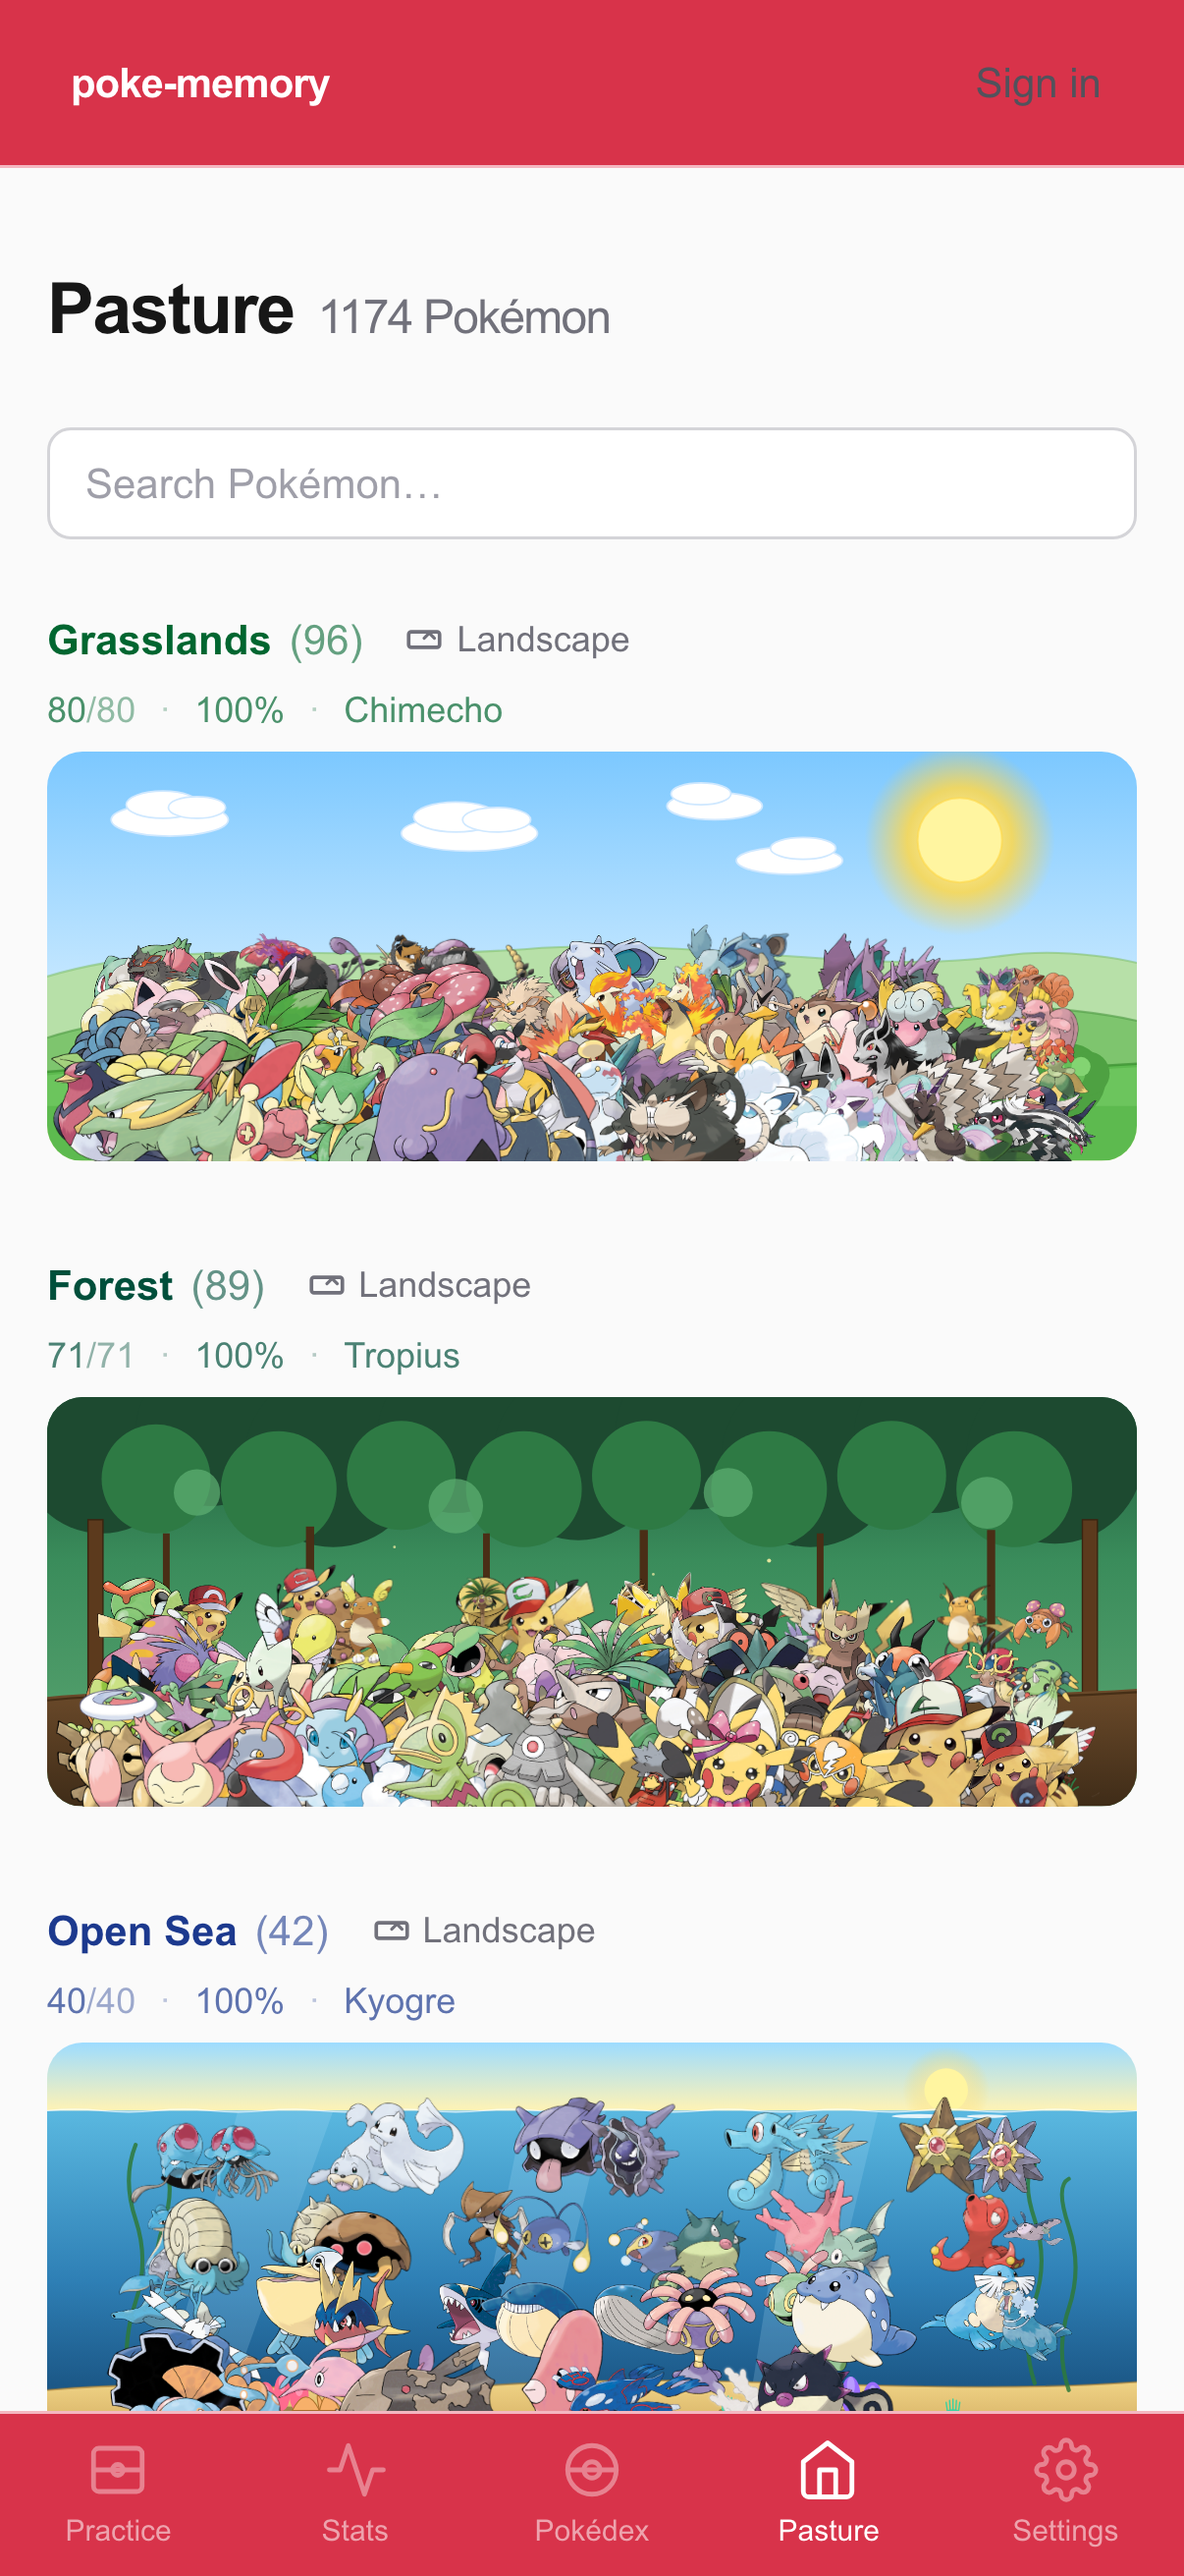
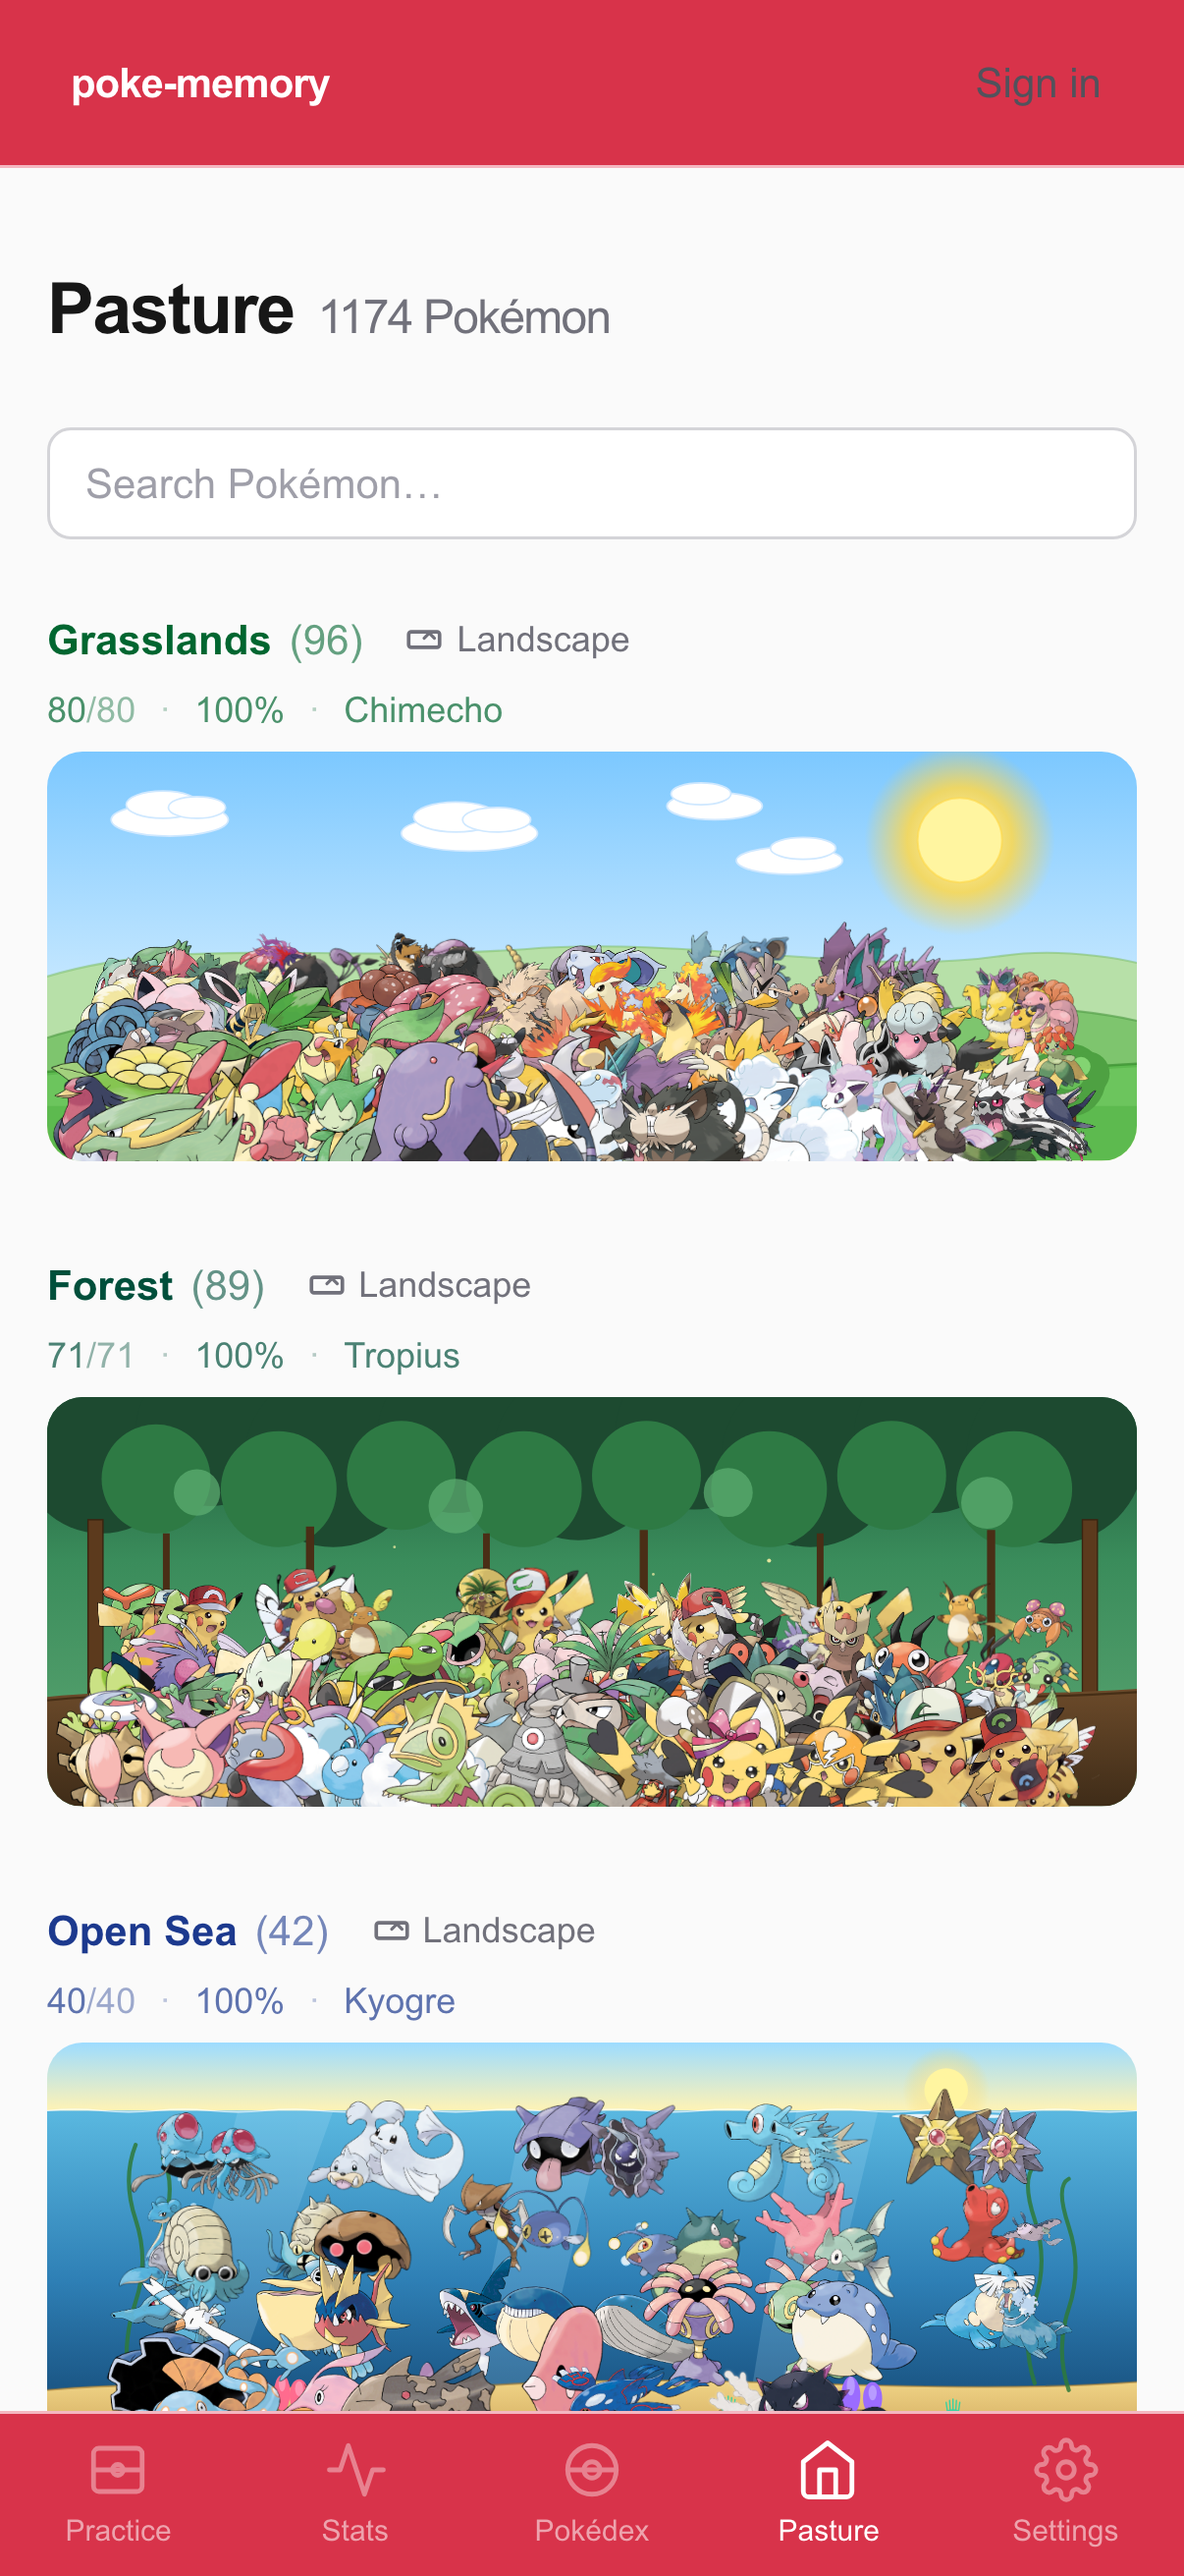
fix(mobile): extend tab-bar tap targets into safe-area inset; hide footer in bottom-nav mode
Tap-target fix (#734): removes the dead strip below mobile tab icons by
moving the safe-area padding from the <nav> wrapper onto each <Link> /
<span> via `pb-[max(12px,env(safe-area-inset-bottom))]`. Each tab item
now has `pt-3 min-h-[44px]` above the inset, meeting the Apple HIG 44pt
minimum with no unreachable gap over the home indicator.

Footer behaviour (#735): Footer returns null when `mobileNav === 'bottom'`
(same pattern as MobileNavPaddingWrapper), eliminating the overlap with
the fixed tab bar. Privacy, Terms, and the fan-project disclaimer are
added to the existing Settings → About section so they remain reachable
in app-like mode. Screenshots regenerated on macOS (iPhone 17 Pro
viewport) — practice-front, practice-flipped, and pasture changed.

closes #734
closes #735

Changed region(s): [[0.092, 0.8032, 0.8897, 0.9577], [0.0307, 0.3398, 0.9204, 0.4634], [0.0614, 0.587, 0.9204, 0.7105]]

diff --git a/components/BottomTabBar.tsx b/components/BottomTabBar.tsx
@@ -186,7 +186,6 @@ function BottomTabBarInner() {
     <nav
       aria-label="Mobile tab navigation"
       className="fixed bottom-0 left-0 right-0 z-40 border-t border-theme-secondary bg-theme-primary md:hidden"
-      style={{ paddingBottom: "env(safe-area-inset-bottom)" }}
     >
       <ul
         role="list"
@@ -202,7 +201,14 @@ function BottomTabBarInner() {
                 href={href}
                 aria-current={isActive ? "page" : undefined}
                 className={[
-                  "flex flex-col items-center gap-0.5 px-2 py-2 text-[10px] font-medium transition-colors",
+                  // py-3 top padding + safe-area-aware bottom padding so the
+                  // interactive area extends into the iOS home-indicator strip —
+                  // no dead tap zone below the visible icons.
+                  // min-h-[44px] ensures the Apple HIG 44pt minimum above the
+                  // safe-area inset (the inset itself is additional space).
+                  "flex flex-col items-center gap-0.5 px-2 pt-3 min-h-[44px]",
+                  "pb-[max(12px,env(safe-area-inset-bottom))]",
+                  "text-[10px] font-medium transition-colors",
                   "focus-visible:outline-none focus-visible:ring-2 focus-visible:ring-[var(--theme-accent)] focus-visible:ring-inset",
                   isActive
                     ? "text-theme-fg-on-primary"
@@ -234,7 +240,6 @@ function BottomTabBarFallback() {
     <div
       aria-hidden="true"
       className="fixed bottom-0 left-0 right-0 z-40 border-t border-theme-secondary bg-theme-primary md:hidden"
-      style={{ paddingBottom: "env(safe-area-inset-bottom)" }}
     >
       <ul
         role="list"
@@ -243,7 +248,7 @@ function BottomTabBarFallback() {
         {STATIC_TABS.map(({ href, label, Icon }) => (
           <li key={href} className="flex-1">
             <span
-              className="flex flex-col items-center gap-0.5 px-2 py-2 text-[10px] font-medium text-theme-fg-on-primary opacity-55"
+              className="flex flex-col items-center gap-0.5 px-2 pt-3 min-h-[44px] pb-[max(12px,env(safe-area-inset-bottom))] text-[10px] font-medium text-theme-fg-on-primary opacity-55"
             >
               <Icon />
               <span>{label}</span>

diff --git a/app/settings/page.tsx b/app/settings/page.tsx
@@ -1575,6 +1575,39 @@ export default function SettingsPage() {
                       View changelog
                     </Link>
                   </div>
+
+                  <hr className="border-zinc-200 dark:border-zinc-800" />
+
+                  <div className="flex flex-wrap gap-3">
+                    <Link
+                      href="/privacy"
+                      className="inline-flex min-h-[44px] items-center rounded-lg border border-zinc-300 bg-background px-5 py-2 text-sm font-semibold text-foreground transition-colors hover:opacity-80 focus-visible:outline-none focus-visible:ring-2 focus-visible:ring-foreground focus-visible:ring-offset-2 dark:border-zinc-700"
+                    >
+                      Privacy
+                    </Link>
+                    <Link
+                      href="/terms"
+                      className="inline-flex min-h-[44px] items-center rounded-lg border border-zinc-300 bg-background px-5 py-2 text-sm font-semibold text-foreground transition-colors hover:opacity-80 focus-visible:outline-none focus-visible:ring-2 focus-visible:ring-foreground focus-visible:ring-offset-2 dark:border-zinc-700"
+                    >
+                      Terms
+                    </Link>
+                  </div>
+
+                  <p className="text-xs text-zinc-400 dark:text-zinc-500">
+                    Unofficial fan project, not affiliated with or endorsed by Nintendo,
+                    Game Freak, or The Pok&eacute;mon Company. Pok&eacute;mon and all
+                    related names, sprites, and cries are the property of their respective
+                    owners. Sprite and species data sourced from{" "}
+                    <a
+                      href="https://pokeapi.co"
+                      target="_blank"
+                      rel="noopener noreferrer"
+                      className="underline-offset-2 hover:underline focus-visible:outline-none focus-visible:ring-2 focus-visible:ring-[var(--theme-accent)] focus-visible:ring-offset-2 rounded"
+                    >
+                      Pok&eacute;API
+                    </a>
+                    .
+                  </p>
                 </div>
               </CollapsibleSection>
               )}

diff --git a/components/Footer.tsx b/components/Footer.tsx
@@ -2,14 +2,33 @@
 
 import Link from "next/link";
 import { useEffect, useState } from "react";
+import { loadSettings, SETTINGS_SAVED_EVENT } from "@/lib/settings/persistence";
 
 const APP_VERSION = process.env.NEXT_PUBLIC_APP_VERSION ?? "dev";
 
 export function Footer() {
   const [year, setYear] = useState<number | null>(null);
+  // Initialise to null so the first client render matches the server render
+  // (both produce the footer), avoiding a React hydration mismatch for users
+  // whose persisted setting is "bottom". The real value is applied in
+  // useEffect after mount.
+  const [mobileNav, setMobileNav] = useState<"bottom" | "hamburger" | null>(null);
+
   useEffect(() => {
     setYear(new Date().getFullYear());
+    setMobileNav(loadSettings().mobileNav);
+
+    function onSaved() {
+      setMobileNav(loadSettings().mobileNav);
+    }
+    window.addEventListener(SETTINGS_SAVED_EVENT, onSaved);
+    return () => window.removeEventListener(SETTINGS_SAVED_EVENT, onSaved);
   }, []);
+
+  // In bottom-nav (app-like) mode the footer is hidden — it would sit
+  // underneath the fixed tab bar and is unreachable. Privacy / Terms / the
+  // fan-project disclaimer remain accessible via Settings → About.
+  if (mobileNav === "bottom") return null;
   return (
     <footer className="border-t border-zinc-200 bg-background dark:border-zinc-800">
       <div className="mx-auto flex max-w-5xl flex-wrap items-center justify-center gap-x-3 gap-y-1 px-4 py-3 text-center text-xs text-zinc-500 dark:text-zinc-400">

diff --git a/changelog.d/unreleased/734-mobile-tab-bar-footer.md b/changelog.d/unreleased/734-mobile-tab-bar-footer.md
@@ -1,0 +1,5 @@
+---
+kind: fixed
+---
+- Mobile bottom tab bar: tap targets now meet the 44pt Apple HIG minimum and extend into the iOS home-indicator safe-area inset, eliminating the dead tap strip below the icons.
+- Bottom-nav (app-like) mode: the footer is hidden when the tab bar is active, resolving the overlap with the fixed bar. Privacy, Terms, and the fan-project disclaimer remain accessible via Settings, under About.
